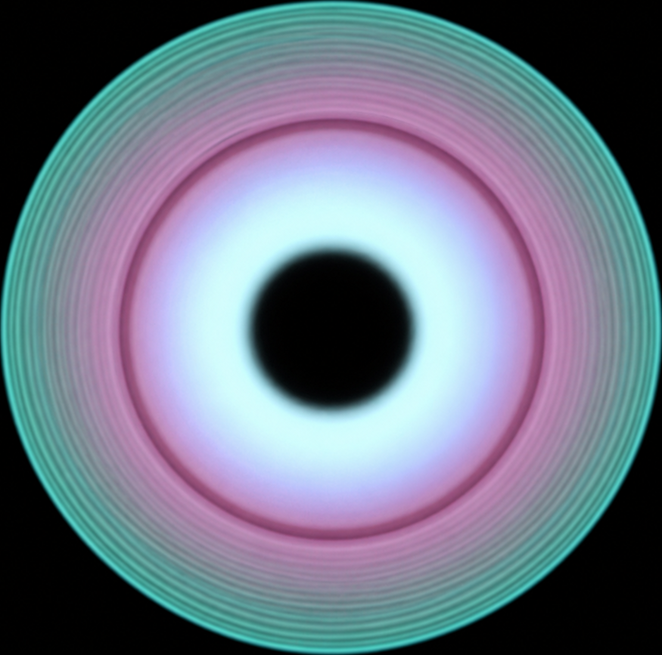
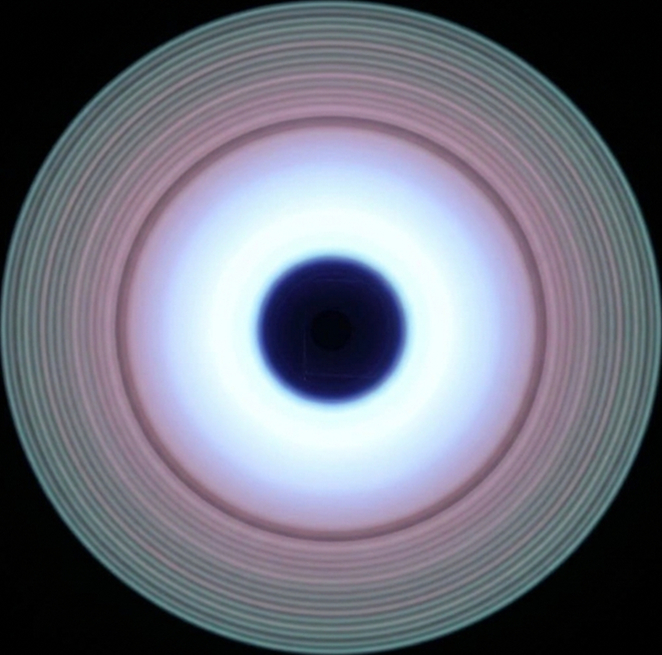
Completed: - slightly smaller body for the club with the modes to match were the ring from the image lands - Reverse the rotation - added a white knob to the club with the modes - fixed all the pictures that needed fixing
Issue:
- some of the modes don't spin centered

diff --git a/src/main/resources/static/2d-sim/index.html b/src/main/resources/static/2d-sim/index.html
@@ -31,25 +31,25 @@
                         <option value="p1_10_pulse">Pulse</option>
                     </optgroup>
                     <optgroup label="Page 2">
-                        <option value="p2_1_candy">Candy</option> <!-- Might need to adjust picture -->
+                        <option value="p2_1_candy">Candy</option>
                         <option value="p2_2_petals">Petals</option>
                         <option value="p2_3_love">Love</option>
                         <option value="p2_4_watermelon">Watermelon</option>
                         <option value="p2_5_freedom">Freedom</option>
-                        <option value="p2_6_microdots">Microdots</option> <!-- Might need to adjust picture -->
+                        <option value="p2_6_microdots">Microdots</option>
                         <option value="p2_7_unicorn">Unicorn</option>
                         <option value="p2_8_blue_blazer">Blue Blazer</option>
-                        <option value="p2_9_solar_flare">Solar Flare</option>
+                        <option value="p2_9_solar_flare">Solar Flare</option> <!-- Missing line, not noticeable -->
                         <option value="p2_10_strobe">Strobe</option>
                     </optgroup>
                     <optgroup label="Page 3">
-                        <option value="p3_1_flamebow">Flamebow</option> <!-- Might need to adjust picture -->
-                        <!-- <option value="p3_2_alicorn">Alicorn</option> -->
+                        <option value="p3_1_flamebow">Flamebow</option>
+                        <option value="p3_2_alicorn">Alicorn</option>
                         <option value="p3_3_liquid_sugar">Liquid Sugar</option>
-                        <option value="p3_4_rainbow_dash">Rainbow Dash</option>
-                        <option value="p3_5_fireball">Fireball</option> <!-- Might need to adjust picture -->
+                        <option value="p3_4_rainbow_dash">Rainbow Dash</option> <!-- Not quite centered -->
+                        <option value="p3_5_fireball">Fireball</option> <!-- Not quite centered  -->
                         <option value="p3_6_froth">Froth</option>
-                        <!-- <option value="p3_7_jammin">Jammin</option> -->
+                        <option value="p3_7_jammin">Jammin</option>
                         <option value="p3_8_bolder">Bolder</option>
                         <option value="p3_9_sunset">Sunset</option>
                         <option value="p3_10_daybreak">Daybreak</option>
@@ -64,14 +64,14 @@
                         <option value="p13_7_OG_candy">OG Candy</option>
                         <option value="p13_8_bouncer">Bouncer</option>
                         <option value="p13_9_kinetic_colors">Kinetic Colors</option>
-                        <!-- <option value="p13_10_rave9000">Rave9000</option> -->
+                        <option value="X_p13_10_rave9000">Rave9000</option> <!-- Bigger circle ? -->
                         <option value="p13_11_balance_point">Balance Point</option>
                         <option value="p13_12_expandoblob">Expandoblob</option>
                         <option value="p13_13_baby_spice">Baby Spice</option>
-                        <!-- <option value="p13_14_responsive_rainbow_fade">Responsive Rainbow Fade</option> -->
-                        <!-- <option value="p13_15_poke_bowl">Poke Bowl</option> -->
+                        <option value="p13_14_responsive_rainbow_fade">Responsive Rainbow Fade</option> <!-- big circle-->
+                        <option value="p13_15_poke_bowl">Poke Bowl</option>
                         <option value="p13_16_mr._bones">Mr. Bones</option>
-                        <!-- <option value="p13_17_bonus_bonanza">Bonus Bonanza</option> -->
+                        <option value="p13_17_bonus_bonanza">Bonus Bonanza</option>
                         <option value="p13_18_OG_strobe">OG Strobe</option>
                         <option value="p13_19_lightning_bug">Lightning Bug</option>
                         <option value="p13_20_day_club">Day Club</option>
@@ -80,9 +80,9 @@
                         <option value="p13_23_marvin's_mode">Marvin's Mode</option>
                         <option value="p13_24_hidden_rainbow">Hidden Rainbow</option>
                         <option value="p13_25_rainbow_bridge">Rainbow Bridge</option>
-                        <option value="p13_26_OG_sparkles">OG Sparkles</option>
-                        <option value="p13_27_day_club_II">Day Club II</option>
-                        <!-- <option value="p13_28_ghost">Ghost</option> -->
+                        <option value="p13_26_OG_sparkles">OG Sparkles</option> 
+                        <option value="p13_27_day_club_II">Day Club II</option> <!-- image not quite centered -->
+                        <option value="p13_28_ghost">Ghost</option>
                         <option value="p13_29_sega_genesis">Sega Genesis</option>
                         <option value="p13_30_sean's_bane">Sean's Bane</option>
                         <option value="p13_31_gulp_chug">Gulp Chug</option>
@@ -93,25 +93,25 @@
                         <option value="p13_36_euro_2">Euro 2</option>
                         <option value="p13_37_OG_rainbow_drops">OG Rainbow Drops</option>
                         <option value="p13_38_alt_pulse">Alt Pulse</option>
-                        <!-- <option value="p13_39_lightning_storm">Lightning Storm</option> -->
+                        <option value="p13_39_lightning_storm">Lightning Storm</option>
                         <option value="p13_40_sparkle_pony">Sparkle Pony</option>
-                        <option value="p13_41_thing2_-_nebula">Thing2 / Nebula</option>
+                        <option value="p13_41_thing2_-_nebula">Thing2 - Nebula</option> <!-- image not quite centered -->
                         <option value="p13_42_OG_lantern">OG Lantern</option>
                         <option value="p13_43_sorcerer">Sorcerer</option>
                         <option value="p13_44_ice_cream_soda">Ice Cream Soda</option>
                         <option value="p13_45_adventure_time">Adventure Time</option>
-                        <option value="p13_46_flintstones_-_candy_corn">Flintstones / Candy Corn</option>
+                        <option value="p13_46_flintstones_-_candy_corn">Flintstones - Candy Corn</option>
                         <option value="p13_47_indiana_jones">Indiana Jones</option>
                         <option value="p13_48_zen">Zen</option>
                         <option value="p13_49_candy_crush">Candy Crush</option>
-                        <option value="p13_50_OG_5-O">OG 5-O</option>
+                        <option value="p13_50_5-O">5-O</option>
                     </optgroup>
                 </select>
                 <input type="button" id="view-button" value="VIEW">
             </fieldset>
         </form>
         <div id="clubDivision">
-            <div style="display:none;">
+            <div id="divImg" style="display:none;">
                 <img id="img" src="img/p1_1_rainbow.png"/>
             </div>
             <!-- Juggling Club -->

diff --git a/src/main/resources/static/2d-sim/moving.js b/src/main/resources/static/2d-sim/moving.js
@@ -21,15 +21,17 @@ function draw(ctx, angle, type) {
     ctx.save();
 
     ctx.beginPath();
+    ctx.fillStyle = "rgb(231, 231, 250)";
+    ctx.fillRect(87, 113, 20, 7);
 	ctx.moveTo(90, 120);
-	ctx.lineTo(90, 233);
-	ctx.lineTo(103, 333);
+	ctx.lineTo(90, 223);
+	ctx.lineTo(103, 323);
 	ctx.lineTo(103, 120);
-	ctx.moveTo(90, 220);
+	ctx.moveTo(90, 230);
 
 	ctx.bezierCurveTo(55, 290, 70, 350, 83, 365);
 	ctx.lineTo(100, 365);
-	ctx.bezierCurveTo(115, 350, 130, 290, 103, 220);
+	ctx.bezierCurveTo(115, 350, 130, 290, 103, 230);
     ctx.closePath();
     ctx.clip();
 
@@ -43,9 +45,9 @@ function draw(ctx, angle, type) {
 
     // Increase angle for next frame
     if (type == "moving") {
-        angle -= 0.02;
+        angle += 0.02;
     } else if (type == "still") {
-        angle -= 0.0075;
+        angle += 0.0075;
     }
 
     if (angle > Math.PI * 2) {
@@ -98,10 +100,9 @@ clickedButton.addEventListener('click', function () {
         if (mode[i] == "_") {
             modeName.innerHTML += ` ${mode[i+1].toUpperCase()}`;
             i++;
-        } else if (mode[i] == "-") {
-            modeName.innerHTML += "/";
-        }
-        else {
+        // } else if (mode[i] == "-") {
+        //     modeName.innerHTML += "/";
+        } else {
             modeName.innerHTML += mode[i]; 
         }
         i++;

diff --git a/src/main/resources/static/2d-sim/moving.css b/src/main/resources/static/2d-sim/moving.css
@@ -21,11 +21,9 @@ fieldset {
 @keyframes spin {
 
   to {
-    transform: rotate(360deg);
+    transform: rotate(-360deg);
   }
 }
-
-
 
 #mode_name {
     visibility: hidden;
